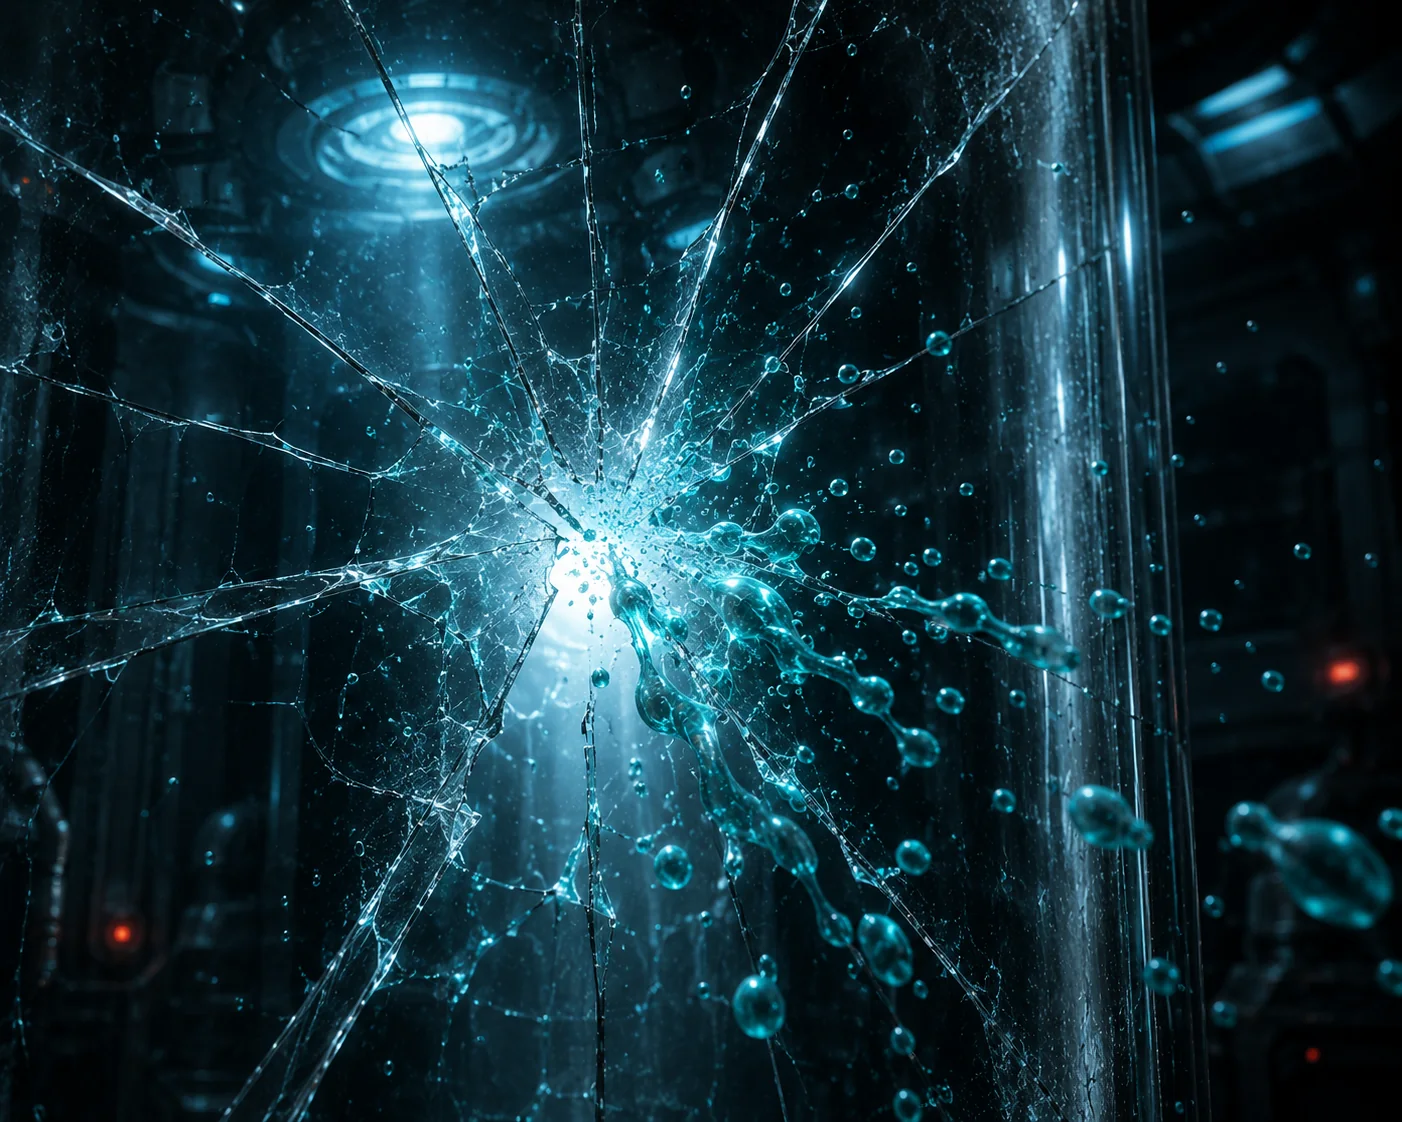
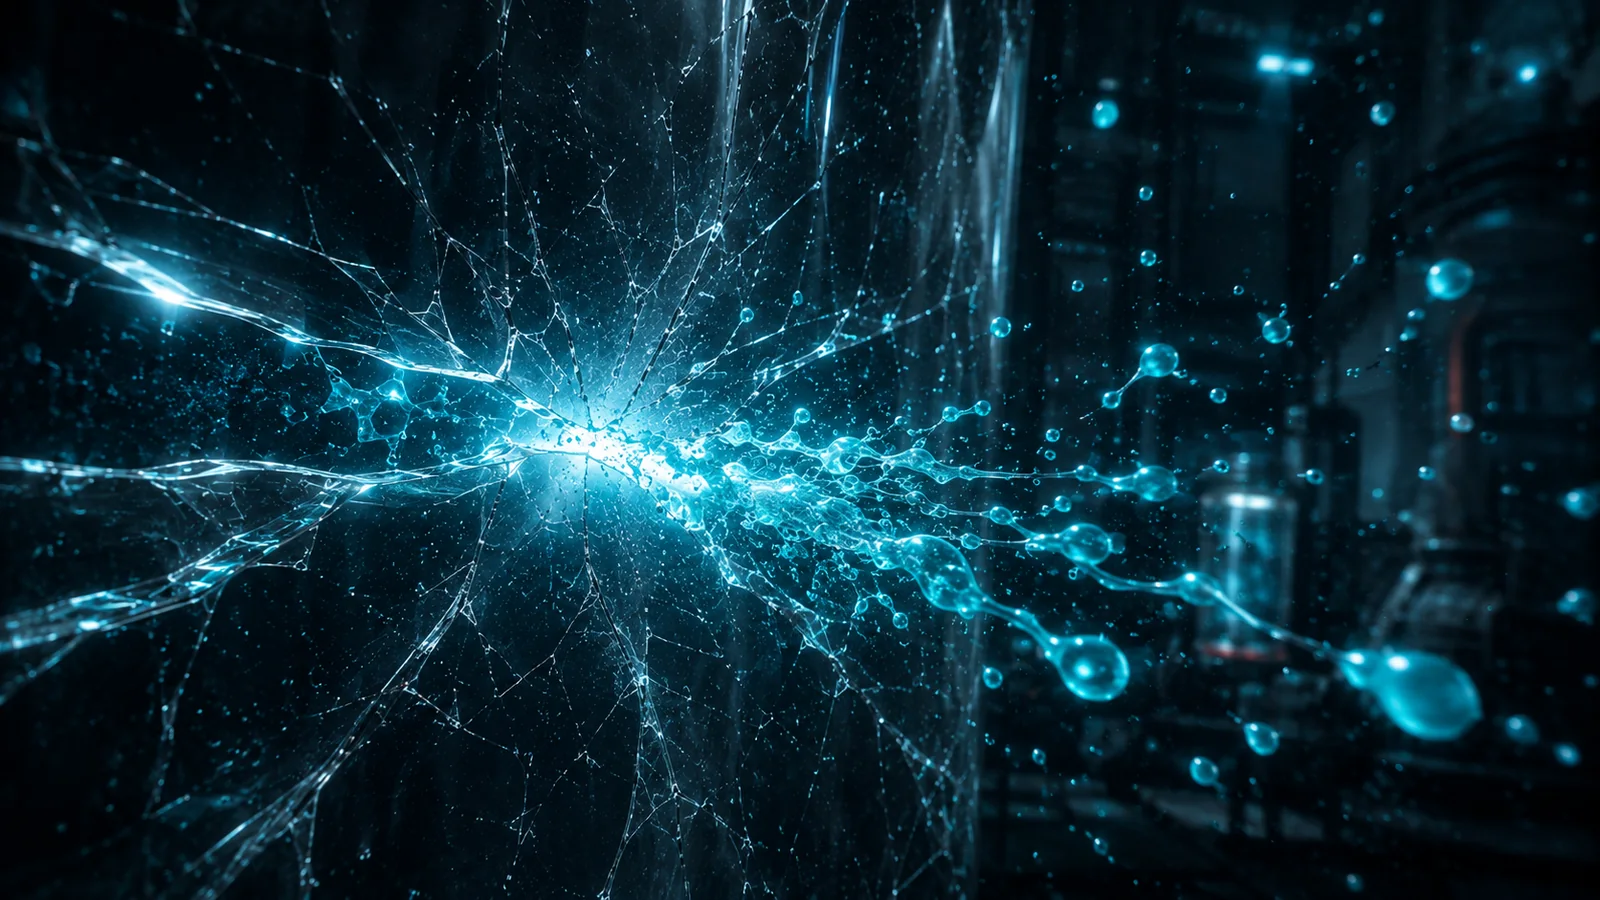
Les sept planches paysage : l'ouverture et le départ sur leurs vraies images (#218)
Les quatre planches de L'OUVERTURE étaient au format portrait/5:4 — rognées
de moitié sur mobile, où le jeu force le paysage. Elles sont remplacées par
les images 16:9 du concepteur, et LE DÉPART quitte ses SVG provisoires pour
ses trois vrais plans.

Les sept fichiers sont normalisés à 1600×900, WebP qualité 84 (160-250 Ko),
la taille que le lecteur étire en « cover » avec sa marge de mouvement.

LE DÉPART passe de trois à quatre battements : depart-1 sert deux fois
(zoom arrière sur le module vide, puis panoramique sur la cuve crevée),
comme l'ouverture le fait déjà — du montage, pas du gaspillage d'images.

docs/assets-ia.md gagne la section 11 : le format imposé des planches de
cinématique et la table des sept plans livrés.

Claude-Session: https://claude.ai/code/session_01JcgQjhbx7n2WuX197SocGM

diff --git a/src/game/cinematique.ts b/src/game/cinematique.ts
@@ -293,18 +293,18 @@ export const CINEMATIQUE_ESSAI: CinematiqueDef = {
 }
 
 // ---- LE DÉPART : la seconde cinématique livrée — le sas de lancement,
-// l'unique issue. Elle attend ses images : ses planches sont pour l'instant
-// les esquisses géométriques (SVG), à remplacer dès que les visuels
-// arrivent. Se branche au moment « lancement-run » du scénario.
+// l'unique issue. Se branche au moment « lancement-run » du scénario.
+// Cinq temps sur trois planches : le module vide, le couloir qui aspire,
+// le seuil franchi.
 
 export const CINEMATIQUE_DEPART: CinematiqueDef = {
   code: 'DEPART',
-  titre: 'Le départ — le sas de lancement (planches provisoires)',
+  titre: 'Le départ — le sas de lancement',
   planches: [
     {
-      image: '/assets/cine/essai-4.svg',
+      image: '/assets/cine/depart-1.webp',
       texte: 'Le module est vide. Les portes ne se rouvriront pas.',
-      duree: 5,
+      duree: 5.5,
       effet: 'zoom-arriere',
       fondu: 'noir',
       bruitage: '',
@@ -312,19 +312,30 @@ export const CINEMATIQUE_DEPART: CinematiqueDef = {
       piste: 'cuve-glaciale',
     },
     {
-      image: '/assets/cine/essai-2.svg',
-      texte: 'Une seule ouverture, au bout du couloir. Elle aspire.',
-      duree: 5,
+      // la cuve crevée au premier plan : ce qu'on laisse derrière soi
+      image: '/assets/cine/depart-1.webp',
+      texte: 'Personne ne reviendra chercher l’expérience ratée.',
+      duree: 4,
       effet: 'pan-droite',
+      fondu: 'aucun',
+      bruitage: 'goutte-rosee',
+      ponctuation: '',
+      piste: '',
+    },
+    {
+      image: '/assets/cine/depart-2.webp',
+      texte: 'Une seule ouverture, au bout du couloir. Elle aspire.',
+      duree: 5.5,
+      effet: 'zoom-avant',
       fondu: 'aucun',
       bruitage: 'vortex-sas',
       ponctuation: '',
       piste: '',
     },
     {
-      image: '/assets/cine/essai-1.svg',
+      image: '/assets/cine/depart-3.webp',
       texte: 'Rien ne se perd. Tout ce qui passe compte.',
-      duree: 4,
+      duree: 5,
       effet: 'zoom-avant',
       fondu: 'aucun',
       bruitage: '',
@@ -335,4 +346,7 @@ export const CINEMATIQUE_DEPART: CinematiqueDef = {
 }
 
 /** Les cinématiques livrées avec le jeu (lecture seule à la table). */
-export const CINEMATIQUES_LIVREES: CinematiqueDef[] = [CINEMATIQUE_ESSAI, CINEMATIQUE_DEPART]
+export const CINEMATIQUES_LIVREES: CinematiqueDef[] = [
+  CINEMATIQUE_ESSAI,
+  CINEMATIQUE_DEPART,
+]

diff --git a/docs/assets-ia.md b/docs/assets-ia.md
@@ -146,6 +146,32 @@ Négatif : `text, letters, numbers, flag, rocket, bright red, white background`
 
 ---
 
+## 11. Planches de cinématique — format imposé
+
+**1600×900 · 16:9 PAYSAGE · WebP** (`--ar 16:9` chez Midjourney). Le jeu force le
+mode paysage sur mobile : une planche portrait serait rognée de moitié. Le lecteur
+étire la planche en `cover` et lui applique un lent mouvement (zoom, panoramique) —
+prévoyez donc **un peu de marge sur les bords**, rien d'essentiel dans les 5 % du
+cadre. Les images sont recompressées à l'intégration (qualité 84, ~160-250 Ko).
+
+Aucun texte dans l'image : les répliques sont posées par le lecteur, réglables à la
+table de montage. Une même planche sert souvent DEUX battements (autre cadrage,
+autre réplique) : c'est du montage, pas du gaspillage.
+
+Planches livrées, dans `public/assets/cine/` :
+
+| Fichier | Plan | Cinématique |
+| --- | --- | --- |
+| `ouverture-1.webp` | la cuve, le sujet dans le liquide | L'OUVERTURE |
+| `ouverture-2.webp` | les Créateurs derrière la vitre | L'OUVERTURE |
+| `ouverture-3.webp` | l'alerte, le module en rouge | L'OUVERTURE |
+| `ouverture-4.webp` | la brèche, le confinement qui cède | L'OUVERTURE |
+| `depart-1.webp` | le module vide, la cuve crevée | LE DÉPART |
+| `depart-2.webp` | le couloir vert vers le sas | LE DÉPART |
+| `depart-3.webp` | le seuil du sas, l'aspiration cyan | LE DÉPART |
+
+---
+
 ## Ce que je peux faire sans générateur d'images
 
 Vecteurs SVG (logo, cadres, icônes, écusson au trait) et textures procédurales en
